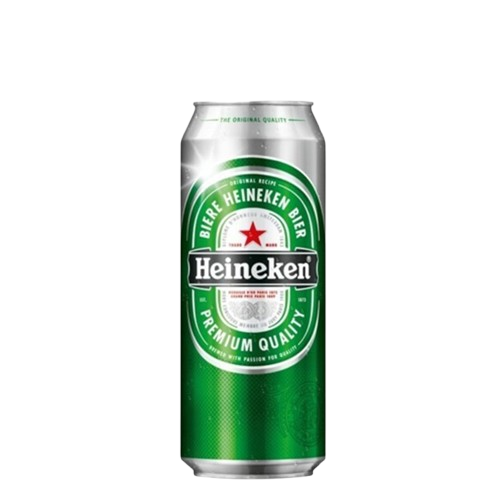
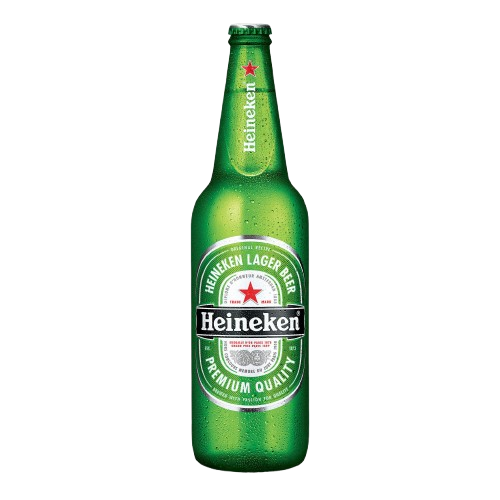
cambio di alcune foto e aggiunta di una bevanda al codice badolato

Changed region(s): [[0.36, 0.03, 0.66, 0.96]]

diff --git a/bevande.html b/bevande.html
@@ -185,9 +185,17 @@
     </div>
 
     <div class="bevanda">
+      <img src="img/Birra_Nastro_Azzurro.png" alt="Birra Nastro Azzurro">
+      <div class="bevanda-info">
+        <h3>Birra Nastro Azzurro 66cl 5,1% vol. <span>€3.00</span></h3>
+        <p><i>Birra premium italiana</i></p>
+      </div>
+    </div>
+        
+    <div class="bevanda">
       <img src="img/Birra_Heineken.png" alt="Birra Heineken">
       <div class="bevanda-info">
-        <h3>Birra Heineken 33cl <span>€3.00</span></h3>
+        <h3>Birra Heineken 66cl 5,0% vol. <span>€3.00</span></h3>
         <p><i>Birra lager</i></p>
       </div>
     </div>
@@ -195,7 +203,7 @@
     <div class="bevanda">
       <img src="img/Birra_Peroni.png" alt="Birra Peroni">
       <div class="bevanda-info">
-        <h3>Birra Peroni 33cl <span>€3.00</span></h3>
+        <h3>Birra Peroni 66cl 4,7% vol. <span>€3.00</span></h3>
         <p><i>Birra italiana</i></p>
       </div>
     </div>
@@ -203,7 +211,7 @@
     <div class="bevanda">
       <img src="img/Vino_Ciro_Rosso.png" alt="Vino Cirò Rosso">
       <div class="bevanda-info">
-        <h3>Vino Cirò Rosso 75cl <span>€12.00</span></h3>
+        <h3>Vino Cirò Rosso 75cl 14,0% vol. <span>€12.00</span></h3>
         <p><i>Vino rosso calabrese</i></p>
       </div>
     </div>
@@ -211,7 +219,7 @@
     <div class="bevanda">
       <img src="img/Vino_Ciro_Bianco.png" alt="Vino Cirò Bianco">
       <div class="bevanda-info">
-        <h3>Vino Cirò Bianco 75cl <span>€11.00</span></h3>
+        <h3>Vino Cirò Bianco 75cl 12,5% vol. <span>€11.00</span></h3>
         <p><i>Vino bianco calabrese</i></p>
       </div>
     </div>
